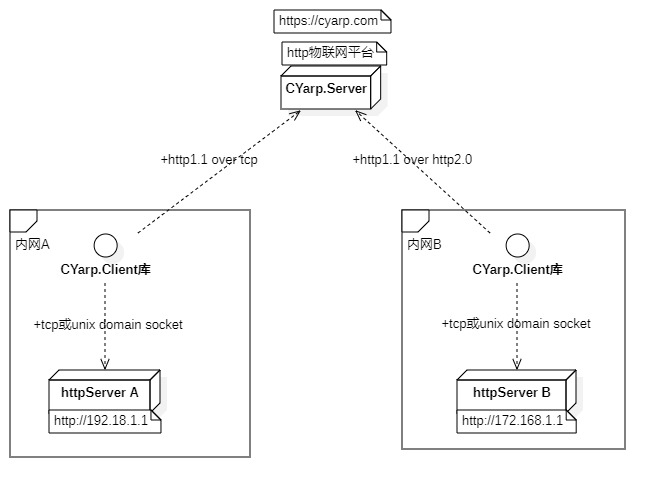
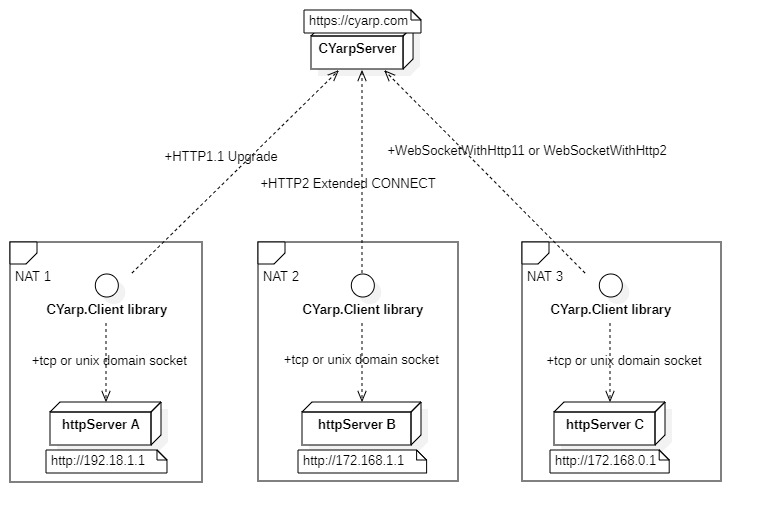
update readme

diff --git a/README.md b/README.md
@@ -1,7 +1,7 @@
 [README](README.md) | [中文文档](README_zh.md)
 
 ## CYarp
-A reverse proxy toolkit to help you expose multiple local http servers behind a NAT or firewall to the internet. It currently supports `http/1.1 over tcp` and `http/1.1 over http2` tunnel.
+A reverse proxy toolkit to help you expose multiple local http servers behind a NAT or firewall to the internet. It currently supports four connection methods: `HTTP/1.1 Upgrade`, `HTTP/2 Extended CONNECT`, `WebSocket` and `WebSocket over Http/2`.
 
 ### Features
 1. Use high-performance [kestrel](https://learn.microsoft.com/zh-cn/aspnet/core/fundamentals/servers/kestrel?view=aspnetcore-8.0) as server
@@ -151,7 +151,7 @@ The following are the dynamic shared library commands exported by AOT compilatio
 
 
 #### Establish a long connection
-> by http/1.1
+> by HTTP/1.1
 
 Client initiates the following request
 ```
@@ -177,7 +177,7 @@ At this time, the long connection based on `tcp` has been completed, and then th
 | Server | `PING\r\n`       | Detect client survival                                  | Reply `PONG\r\n`                     |
 | Server | `{tunnelId}\r\n` | Let the Client to create a new HttpTunnel to the Server | Create HttpTunnel using `{tunnelId}` |
 
-> by http/2.0
+> by HTTP/2
 
 Client initiates the following request
 ```
@@ -195,7 +195,7 @@ If the server is verified successfully, it will respond with a `200` status code
 Set-Cookie = <load balancer cookie>
 ```
 
-At this time, the long connection based on `http/2.0` has been completed, and then the following Stream in the long connection must implement the following functions
+At this time, the long connection based on `HTTP/2` has been completed, and then the following Stream in the long connection must implement the following functions
 
 | Sender | Content          | Intention                                               | Receiver's actions                   |
 | ------ | ---------------- | ------------------------------------------------------- | ------------------------------------ |
@@ -205,7 +205,7 @@ At this time, the long connection based on `http/2.0` has been completed, and th
   
 
 #### Creation of HttpTunnel
-> by http/1.1
+> by HTTP/1.1
 
 Client send the following request
 ```
@@ -222,9 +222,9 @@ Connection: Upgrade
 Set-Cookie: <load balancer cookie>
 ```
 
-At this time, the creation of the HttpTunnel over `tcp` has been completed, and then the server will send an http/1.1 request to the client and receive the client's http1.1 response in the subsequent Stream.
+At this time, the creation of the HttpTunnel over `tcp` has been completed, and then the server will send an `HTTP/1.1` request to the client and receive the client's `HTTP/1.1` response in the subsequent Stream.
 
-> by http/2.0
+> by HTTP/2
 
 Client send the following request
 ```
@@ -241,7 +241,7 @@ If the server is verified successfully, it will respond with a `200` status code
 Set-Cookie = <load balancer cookie>
 ```
 
-At this time, the creation of the HttpTunnel over `http/2.0` has been completed, and then the server will send an http/1.1 request to the client and receive the client's http1.1 response in the subsequent Stream.
+At this time, the creation of the HttpTunnel over `HTTP/2` has been completed, and then the server will send an `HTTP/1.1` request to the client and receive the client's `HTTP/1.1` response in the subsequent Stream.
 
 ### Security
 When the server side uses https, the following parts are tls secure transmission
